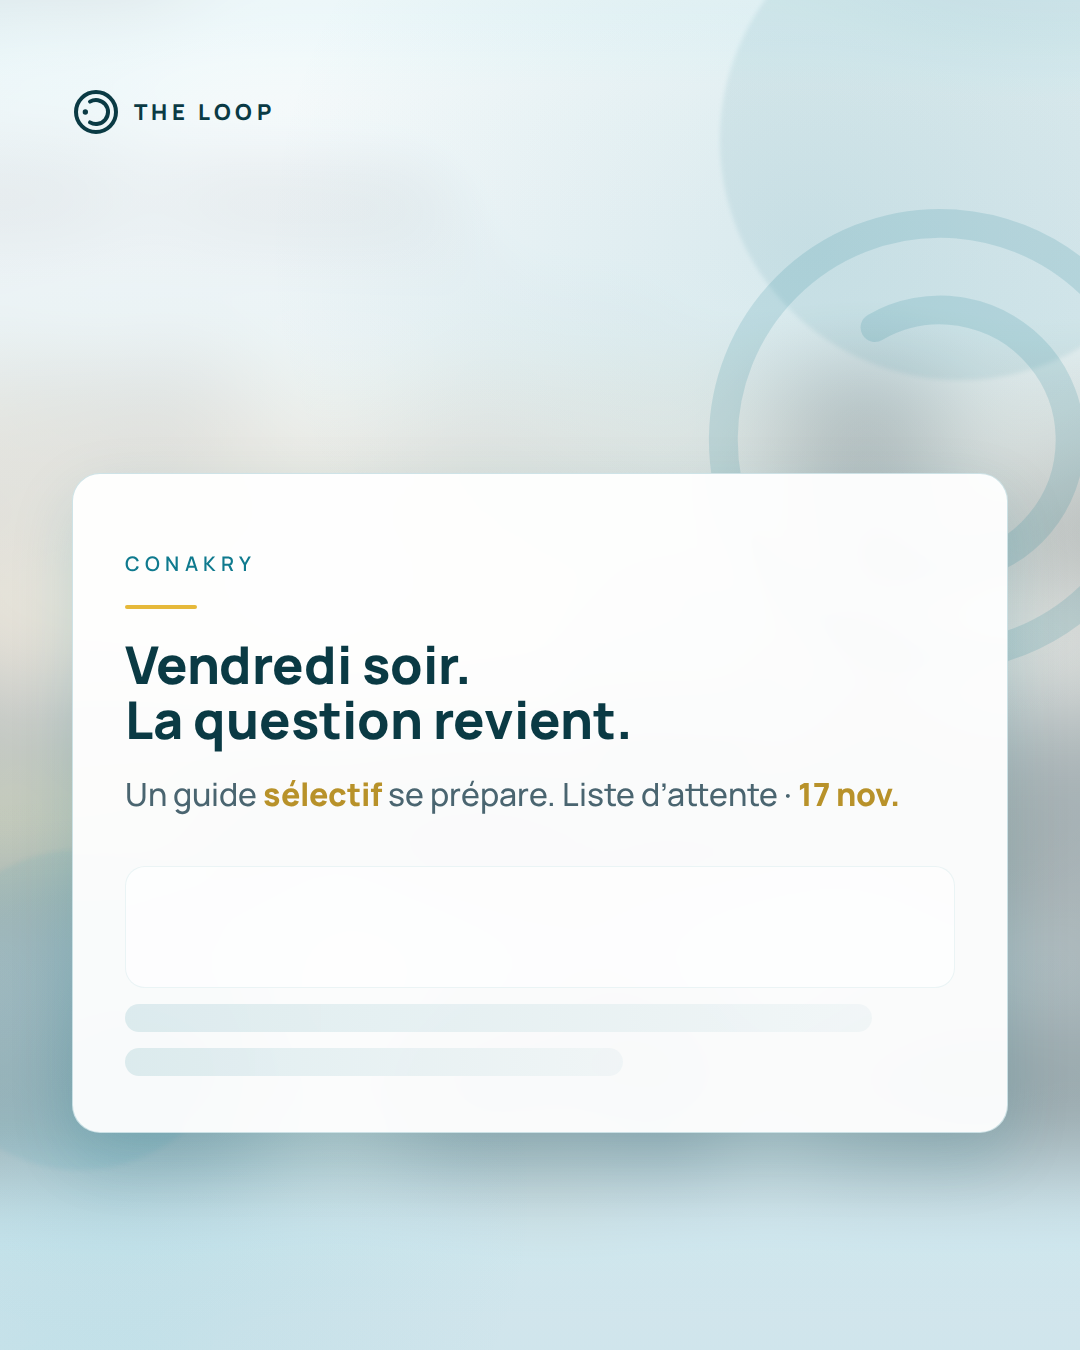
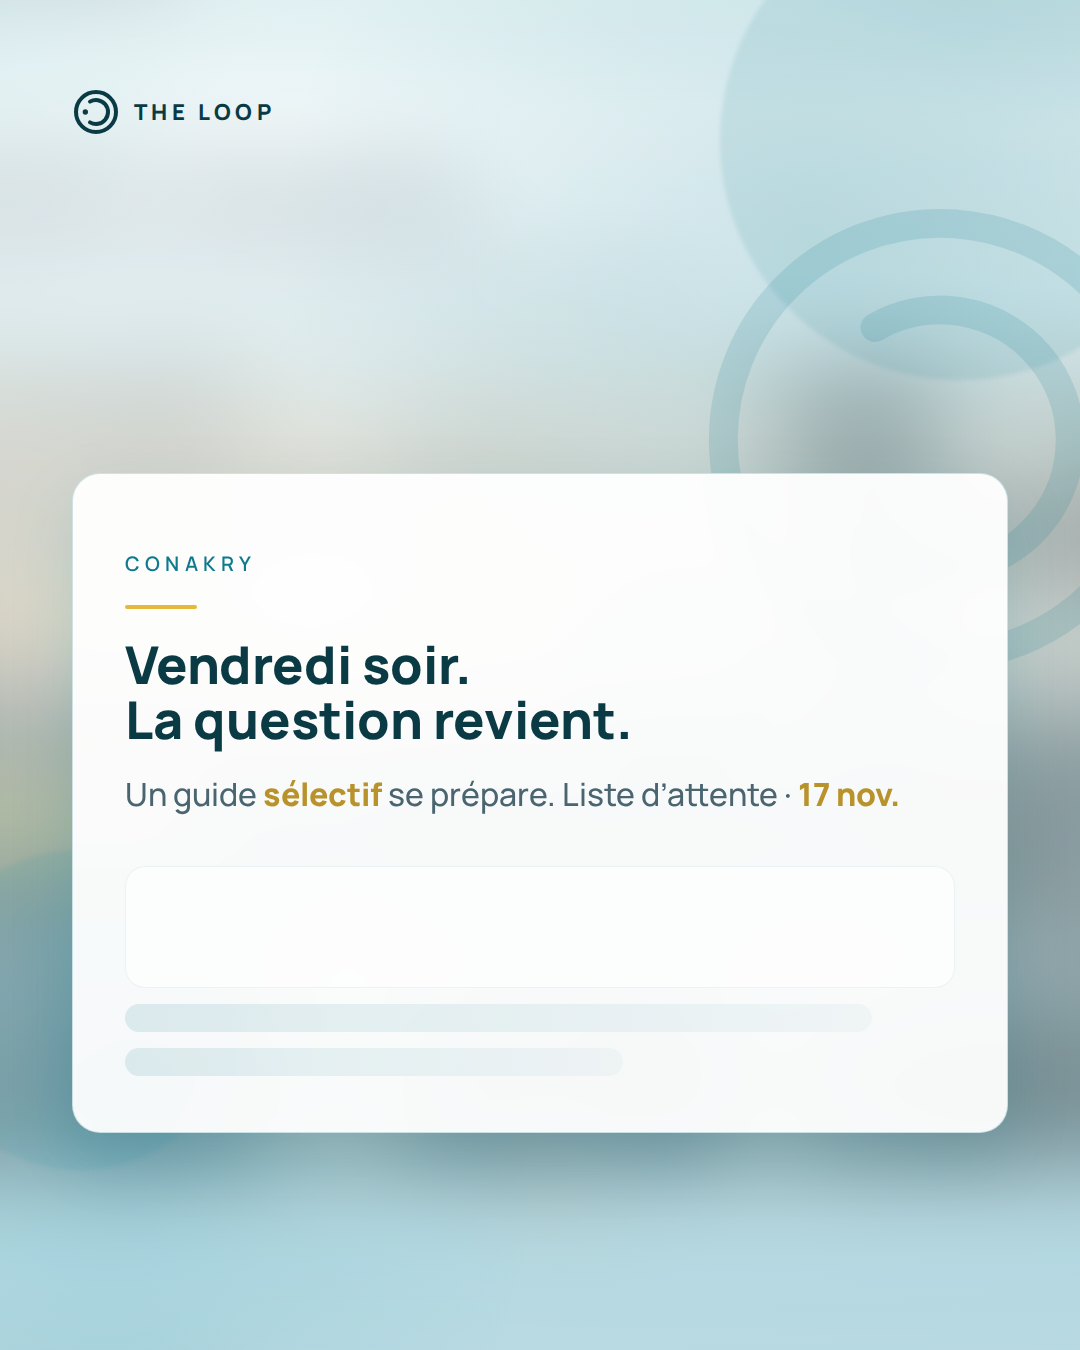
docs(com): fond visible + POST_3-11_feed (noms clairs)

Changed region(s): [[0.0, 0.4978, 1.0, 1.0]]

diff --git a/docs/communication/lancement-2026/export-visuels-pack-acte-a-v4-light.html b/docs/communication/lancement-2026/export-visuels-pack-acte-a-v4-light.html
@@ -25,7 +25,8 @@
       position: relative;
       overflow: hidden;
       /* N1 adouci + léger renfort teal (micro-assombrissement) */
-      background: linear-gradient(180deg, #f2f8fa 0%, #e8f2f6 46%, #d2e6ef 100%);
+      /* Saut visible (entre « trop adouci » et niveau 2) — validé visuellement sur export */
+      background: linear-gradient(175deg, #eef6f8 0%, #d6ebf0 42%, #b0d4e0 100%);
       color: var(--deep);
     }
     .c.reel { height: 1920px; }
@@ -34,8 +35,8 @@
       position: absolute;
       inset: -20%;
       background: url('assets/capture-accueil-2.jpg') center 20% / cover no-repeat;
-      filter: blur(48px) saturate(0.84) brightness(1.05) hue-rotate(-3deg);
-      opacity: 0.35;
+      filter: blur(48px) saturate(0.95) brightness(1.02) hue-rotate(-4deg);
+      opacity: 0.4;
     }
     .atmo-teal {
       position: absolute;
